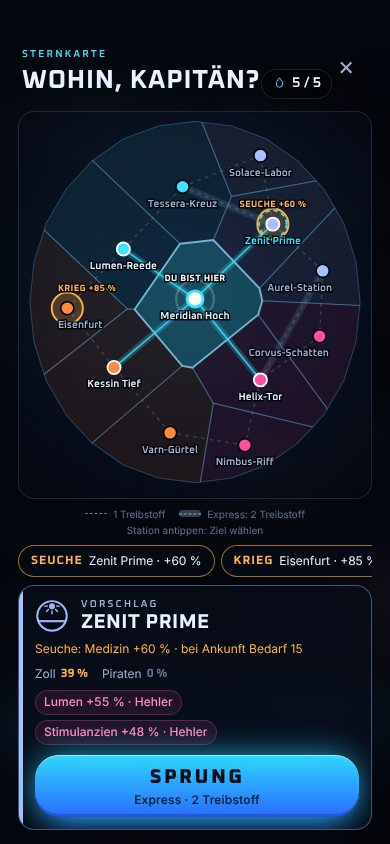
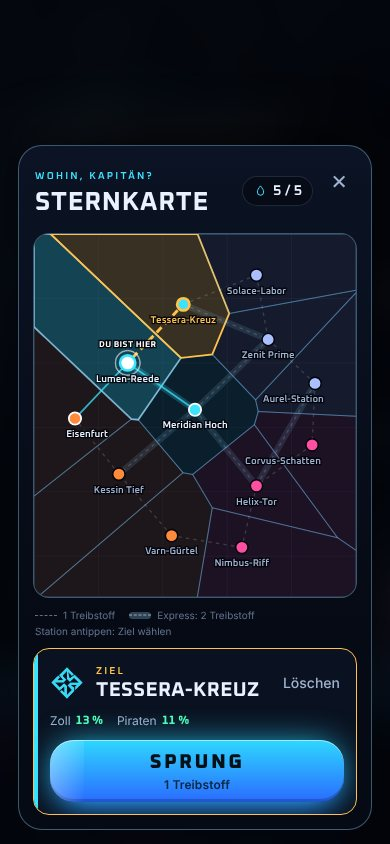
Make the star chart one screen: a solid panel, and a chart that fills its frame
The heading, the chart and the destination used to float separately over the
dimmed background, and the sector was an oval inside a rectangle with dead
corners. Now one panel holds them together, the territories fill the chart's
frame to the edge with a faint grid, and the chart keeps its shape instead of
being letterboxed. On a short screen the chart gives way first and the jump
button stays in view.

Claude-Session: https://claude.ai/code/session_01LRkk68pyJcCphAoNdXRYk3

diff --git a/packages/client/src/ui/styles.css b/packages/client/src/ui/styles.css
@@ -2335,3 +2335,20 @@ i.flyglyph { width: 12px; height: 12px; left: -6px; top: -6px; background: var(-
 @keyframes shake-x { 20% { transform: translateX(-8px); } 40% { transform: translateX(7px); } 60% { transform: translateX(-5px); } 80% { transform: translateX(3px); } }
 .moment--convoy .moment__title { animation: tell 0.4s var(--out) both; }
 @media (prefers-reduced-motion: reduce) { .moment--convoy.is-pending .dial, .moment--convoy.is-lost .dial { animation: none; } }
+
+/* ---------------------------------------------------------------------------
+   The star chart as one screen: a solid panel that holds the heading, the chart and the
+   destination. The chart is a rectangle filled to its edge with the territories, so it
+   has no dead corners, and it keeps its shape instead of being letterboxed.
+   --------------------------------------------------------------------------- */
+.routes { position: relative; gap: 10px; padding: 16px 14px 14px; border-radius: var(--radius-l); background: linear-gradient(180deg, #0b1324, #060a14 70%); border: 1px solid var(--stroke-strong); box-shadow: 0 -20px 60px -20px #000; animation: sheet-up 0.4s var(--out) both; }
+.routes .sheet__x { top: 12px; right: 10px; }
+.routes__head { padding: 0 44px 2px 2px; }
+.sector { display: block; width: min(100%, calc(min(52dvh, 100dvh - 392px) * 110 / 124)); height: auto; max-height: none; aspect-ratio: 110 / 124; margin-inline: auto; overflow: hidden; background: #070c18; border-color: var(--stroke-strong); }
+.sector__grid { fill: none; stroke: rgba(150, 195, 255, 0.07); stroke-width: 0.25; }
+.sector__cell { stroke: rgba(120, 200, 255, 0.32); }
+.routes .legend { justify-content: flex-start; padding-inline: 2px; }
+.routes .dest { background: rgba(255, 255, 255, 0.03); }
+/* On a short screen the chart gives way first, and the jump never leaves the screen. */
+.routes .dest { position: sticky; bottom: 0; z-index: 3; background: #0a1120; }
+.routes__head { align-items: center; }

diff --git a/packages/client/src/ui/SectorMap.tsx b/packages/client/src/ui/SectorMap.tsx
@@ -4,11 +4,14 @@ import { FACTION_COLOR } from './format.ts';
 
 type Pt = [number, number];
 
-/** The edge of charted space: an ellipse around all stations, as a polygon. */
-const RIM: Pt[] = Array.from({ length: 28 }, (_, i) => {
-  const a = (i / 28) * Math.PI * 2;
-  return [50 + Math.cos(a) * 53, 55 + Math.sin(a) * 58];
-});
+/** The chart's frame in its own units. The territories fill it to the edge, so the map and its frame are one thing. */
+const BOX = { x: -5, y: -6, w: 110, h: 124 };
+const RIM: Pt[] = [[BOX.x, BOX.y], [BOX.x + BOX.w, BOX.y], [BOX.x + BOX.w, BOX.y + BOX.h], [BOX.x, BOX.y + BOX.h]];
+/** A faint grid, like on a printed chart. */
+const GRID = [
+  ...[17, 39, 61, 83].map((x) => `M${x} ${BOX.y}V${BOX.y + BOX.h}`),
+  ...[16, 38, 60, 82, 104].map((y) => `M${BOX.x} ${y}H${BOX.x + BOX.w}`),
+].join('');
 
 /** Keep the part of a polygon that is nearer to p than to q. */
 function clip(poly: Pt[], p: Pt, q: Pt): Pt[] {
@@ -58,7 +61,7 @@ export function SectorMap({ view, course, proposed = null, onPick }: { view: Cli
   }));
 
   return (
-    <svg className="sector" viewBox="-5 -6 110 124" role="img" aria-label="Sternkarte des Sektors">
+    <svg className="sector" viewBox={`${BOX.x} ${BOX.y} ${BOX.w} ${BOX.h}`} role="img" aria-label="Sternkarte des Sektors">
       {STATIONS.map((s) => (
         <polygon
           key={s.id} points={CELLS.get(s.id)}
@@ -66,6 +69,7 @@ export function SectorMap({ view, course, proposed = null, onPick }: { view: Cli
           style={{ ['--tone' as string]: FACTION_COLOR[s.faction] }}
         />
       ))}
+      <path className="sector__grid" d={GRID} />
       {LANES.map(([a, b]) => {
         const p = POS.get(a)!, q = POS.get(b)!;
         const cls = onPath(a, b) ? ' is-course' : a === here || b === here ? ' is-open' : '';

diff --git a/packages/client/src/ui/RouteSheet.tsx b/packages/client/src/ui/RouteSheet.tsx
@@ -51,8 +51,8 @@ export function RouteSheet() {
         <CloseX onClick={() => close(false)} />
         <header className="routes__head">
           <div>
-            <span className="eyebrow">Sternkarte</span>
-            <h3>Wohin, Kapitän?</h3>
+            <span className="eyebrow">Wohin, Kapitän?</span>
+            <h3>Sternkarte</h3>
           </div>
           <span className="pill"><IconFuel />{view.fuel.amount} / {view.fuel.max}</span>
         </header>

diff --git a/docs/redesign/07-design-pruefung.md b/docs/redesign/07-design-pruefung.md
@@ -134,6 +134,18 @@ Anlass: Die Öffnung wirkte zu brav. Der Container stand im Leeren, wackelte kur
 | Konvoi-Rückkehr als Moment | Erledigt. Zuerst die Chance als Ring, dann nach einem immer gleich langen Augenblick das Ergebnis mit Belohnung. Kein Zeiger, der knapp daneben stehen bleibt |
 | Schiff im Sprung | Erledigt. Die Sprung-Szene zeigt das Schiff von hinten, in den Tunnel gedreht |
 
+### Sternkarte als ein Bildschirm (27.11.2026)
+
+Anlass: Die Sternkarte wirkte falsch zusammengesetzt. Titel, Karte und Zielkarte schwebten einzeln über dem abgedunkelten Hintergrund, und der Sektor lag als Oval in einem eckigen Rahmen mit toten Ecken.
+
+| Vorher | Nachher |
+|---|---|
+| Einzelne Teile ohne gemeinsame Fläche | Eine geschlossene Fläche hält Titel, Karte und Ziel zusammen |
+| Sektor als Oval im Rechteck | Die Gebiete füllen den Rahmen bis an den Rand, mit feinem Raster wie auf einer gedruckten Karte |
+| Auf hohen Bildschirmen blieb die Karte klein, auf kurzen rutschte der Sprung-Knopf aus dem Bild | Die Karte behält ihre Form und gibt auf kurzen Bildschirmen zuerst nach. Der Sprung-Knopf bleibt immer sichtbar |
+
+Geprüft bei 390 mal 844, 360 mal 640 und 731 mal 993 Pixeln.
+
 ## Bewusst nicht umgesetzt
 
 - **Prestige mit gedrückt halten:** Die Bestätigung in zwei Schritten mit Verlustliste reicht fürs Erste.
